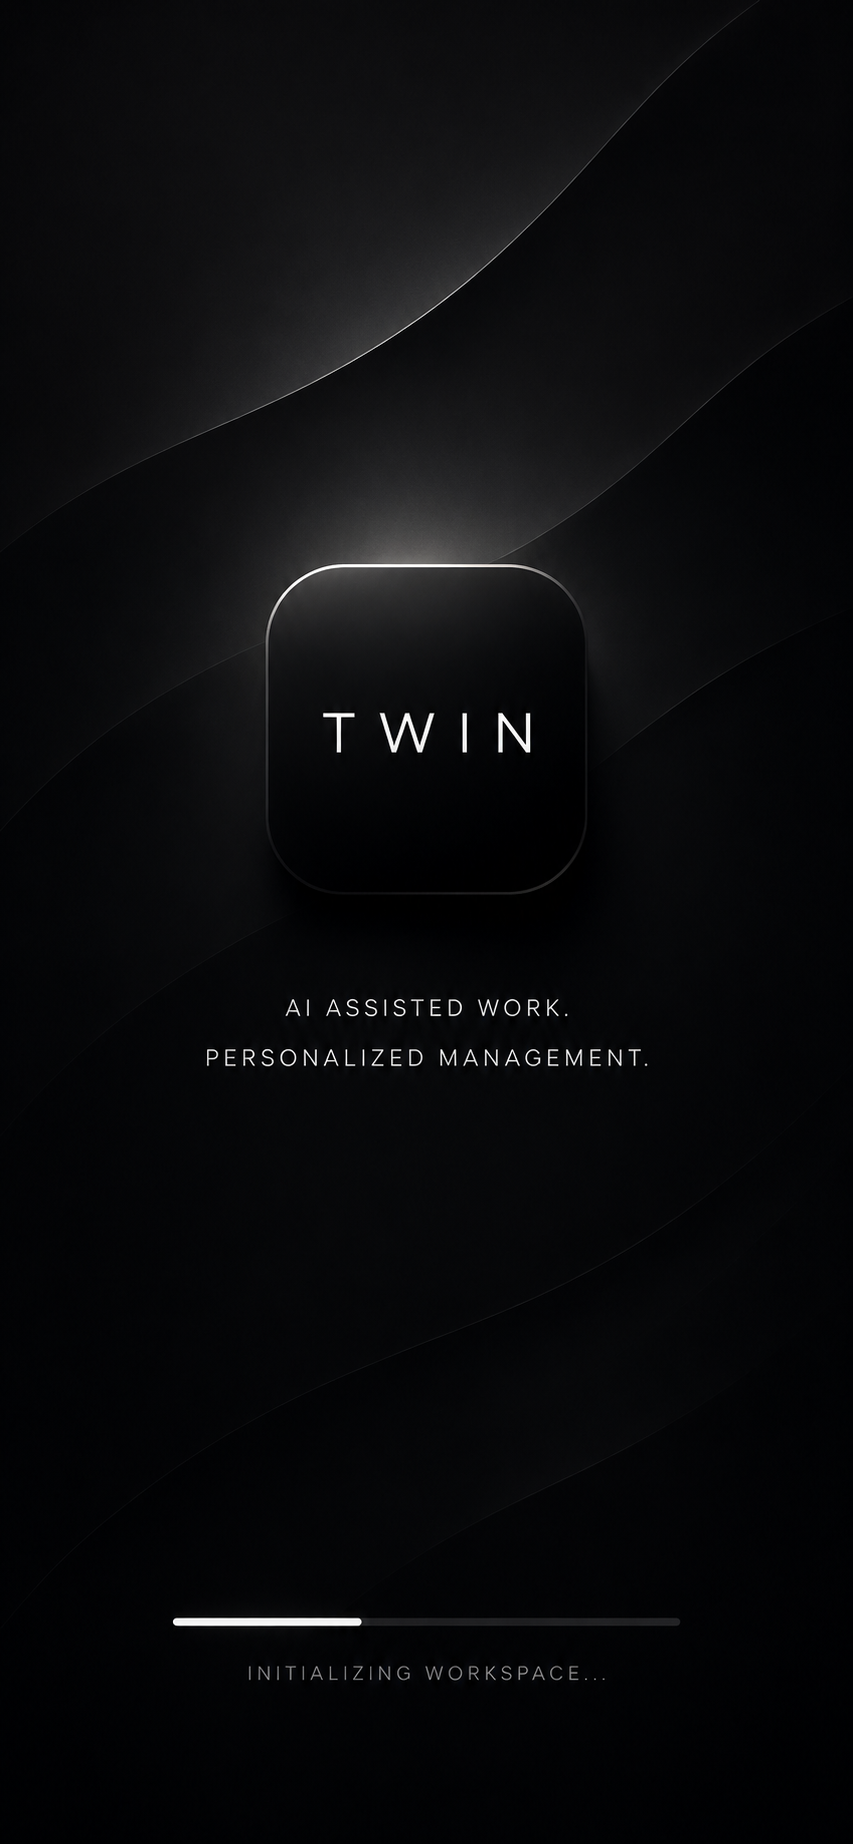
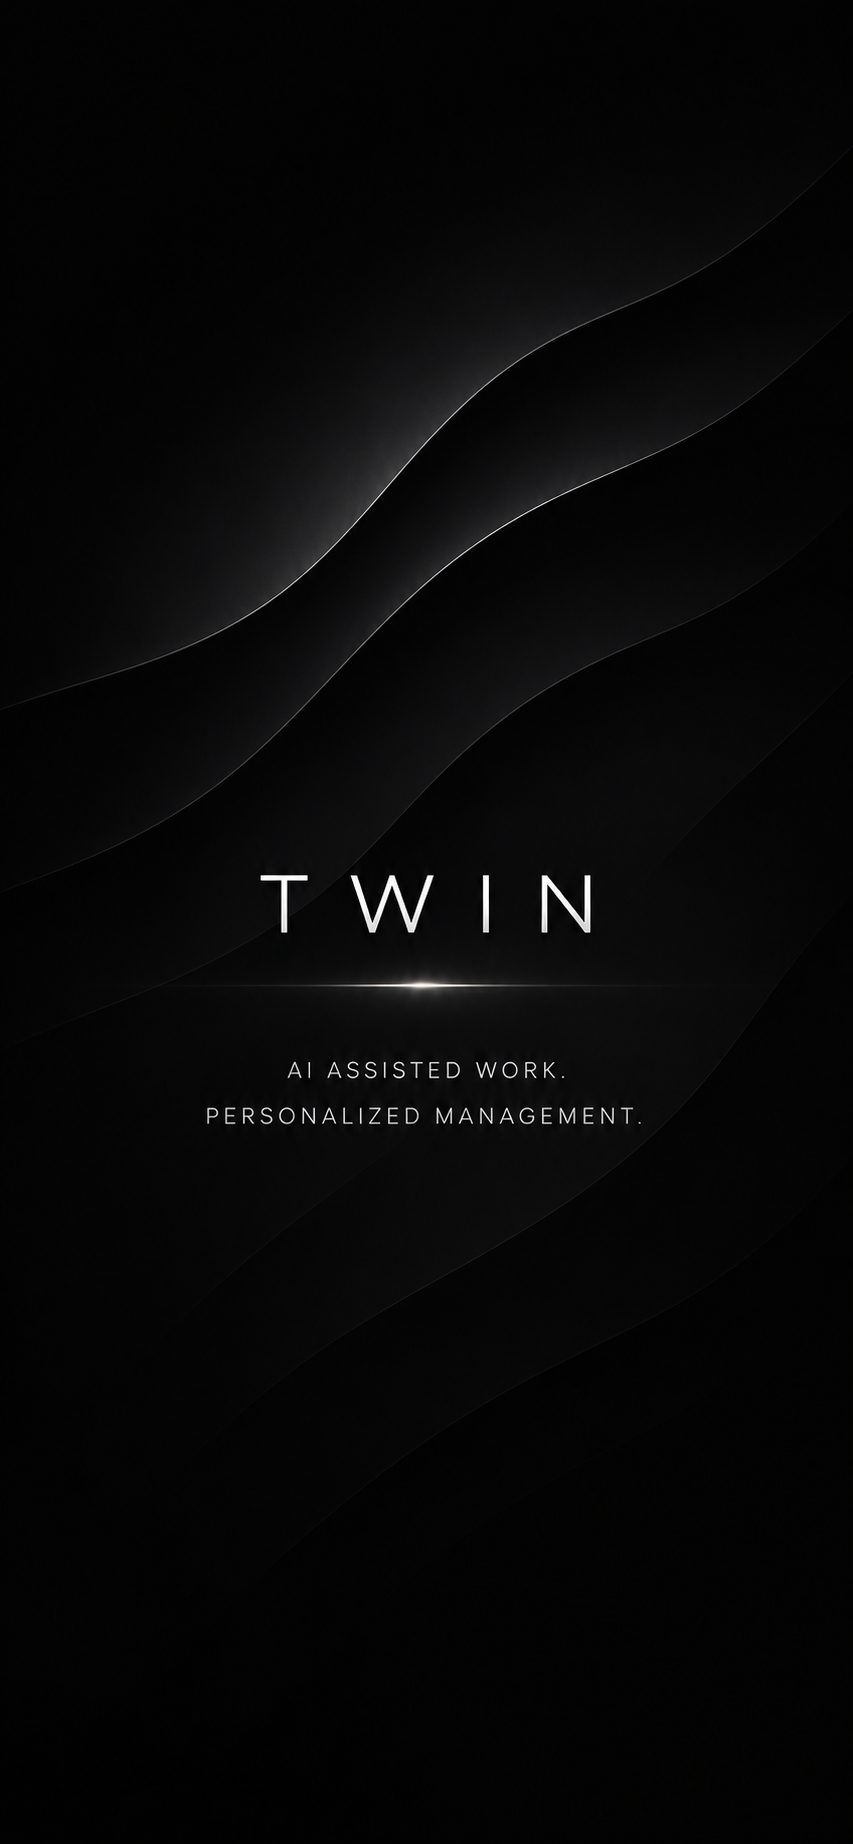
matcha

diff --git a/components/SplashScreen.js b/components/SplashScreen.js
@@ -1,0 +1,52 @@
+"use client";
+
+import { useState, useEffect } from "react";
+
+export default function SplashScreen() {
+  const [splashState, setSplashState] = useState("visible");
+  
+  useEffect(() => {
+    // Only show splash screen once per session
+    const hasSeenSplash = sessionStorage.getItem("twin_splash_seen");
+    if (hasSeenSplash) {
+      setSplashState("hidden");
+      return;
+    }
+    
+    sessionStorage.setItem("twin_splash_seen", "true");
+    
+    const fadeTimer = setTimeout(() => setSplashState("fading"), 1800);
+    const hideTimer = setTimeout(() => setSplashState("hidden"), 2400);
+    
+    return () => {
+      clearTimeout(fadeTimer);
+      clearTimeout(hideTimer);
+    };
+  }, []);
+
+  if (splashState === "hidden") return null;
+
+  return (
+    <div 
+      className={`fixed inset-0 z-[99999] flex items-center justify-center bg-[#020305] transition-opacity duration-[600ms] ease-[cubic-bezier(0.25,0.46,0.45,0.94)] ${
+        splashState === "fading" ? "opacity-0 pointer-events-none" : "opacity-100"
+      }`}
+    >
+      <img
+        src="/opening.png"
+        alt="Twin OS"
+        className="w-full h-full object-cover"
+        style={{
+          animation: "splash-scale 2.5s cubic-bezier(0.25, 0.46, 0.45, 0.94) forwards",
+        }}
+      />
+      <style>{`
+        @keyframes splash-scale {
+          0% { transform: scale(1.03); opacity: 0; }
+          15% { opacity: 1; }
+          100% { transform: scale(1); opacity: 1; }
+        }
+      `}</style>
+    </div>
+  );
+}

diff --git a/app/workout-record/page.js b/app/workout-record/page.js
@@ -359,32 +359,6 @@ const CSS = `
     padding-bottom: 100px;
   }
 
-  
-
-  /* ── SPLASH SCREEN ── */
-  .wl-splash {
-    position: fixed; inset: 0;
-    z-index: 9999;
-    background: #020305;
-    display: flex; align-items: center; justify-content: center;
-    transition: opacity 0.6s cubic-bezier(0.25, 0.46, 0.45, 0.94);
-  }
-  .wl-splash.fade-out {
-    opacity: 0;
-    pointer-events: none;
-  }
-  .wl-splash-img {
-    width: 100%;
-    height: 100%;
-    object-fit: cover;
-    animation: splash-scale 2.5s cubic-bezier(0.25, 0.46, 0.45, 0.94) forwards;
-  }
-  @keyframes splash-scale {
-    0% { transform: scale(1.03); opacity: 0; }
-    15% { opacity: 1; }
-    100% { transform: scale(1); opacity: 1; }
-  }
-
   /* ── HEADER ── */
   .wl-header {
     position:sticky;
@@ -1455,20 +1429,11 @@ export default function WorkoutLogger() {
   const [openGroups, setOpenGroups] = useState({});
   const [mounted, setMounted] = useState(false);
   const [isKaiOpen, setIsKaiOpen] = useState(false);
-  const [splashState, setSplashState] = useState("visible");
 
   useEffect(() => {
     const handler = () => setIsKaiOpen(true);
     window.addEventListener("twin:open-kai", handler);
-    
-    const fadeTimer = setTimeout(() => setSplashState("fading"), 1500);
-    const hideTimer = setTimeout(() => setSplashState("hidden"), 2100);
-    
-    return () => {
-      window.removeEventListener("twin:open-kai", handler);
-      clearTimeout(fadeTimer);
-      clearTimeout(hideTimer);
-    };
+    return () => window.removeEventListener("twin:open-kai", handler);
   }, []);
 
   const [modalOpen, setModalOpen] = useState(false);
@@ -1678,13 +1643,6 @@ export default function WorkoutLogger() {
   return (
     <>
       <style>{CSS}</style>
-      
-      {splashState !== "hidden" && (
-        <div className={`wl-splash ${splashState === "fading" ? "fade-out" : ""}`}>
-          <img src="/opening.png" alt="Twin OS" className="wl-splash-img" />
-        </div>
-      )}
-
       <div className="wl-app">
         <Confetti active={showCelebration} />
 

diff --git a/app/layout.js b/app/layout.js
@@ -1,6 +1,7 @@
 import { Geist, Geist_Mono } from "next/font/google";
 import InstallAppPrompt from "@/components/install-app-prompt";
 import NavShell from "@/components/NavShell";
+import SplashScreen from "@/components/SplashScreen";
 import "./globals.css";
 
 const geistSans = Geist({
@@ -41,6 +42,7 @@ export default function RootLayout({ children }) {
         <link rel="manifest" href="/manifest.webmanifest" crossOrigin="use-credentials" />
       </head>
       <body className="min-h-full flex flex-col">
+        <SplashScreen />
         {children}
         <NavShell />
         <InstallAppPrompt />